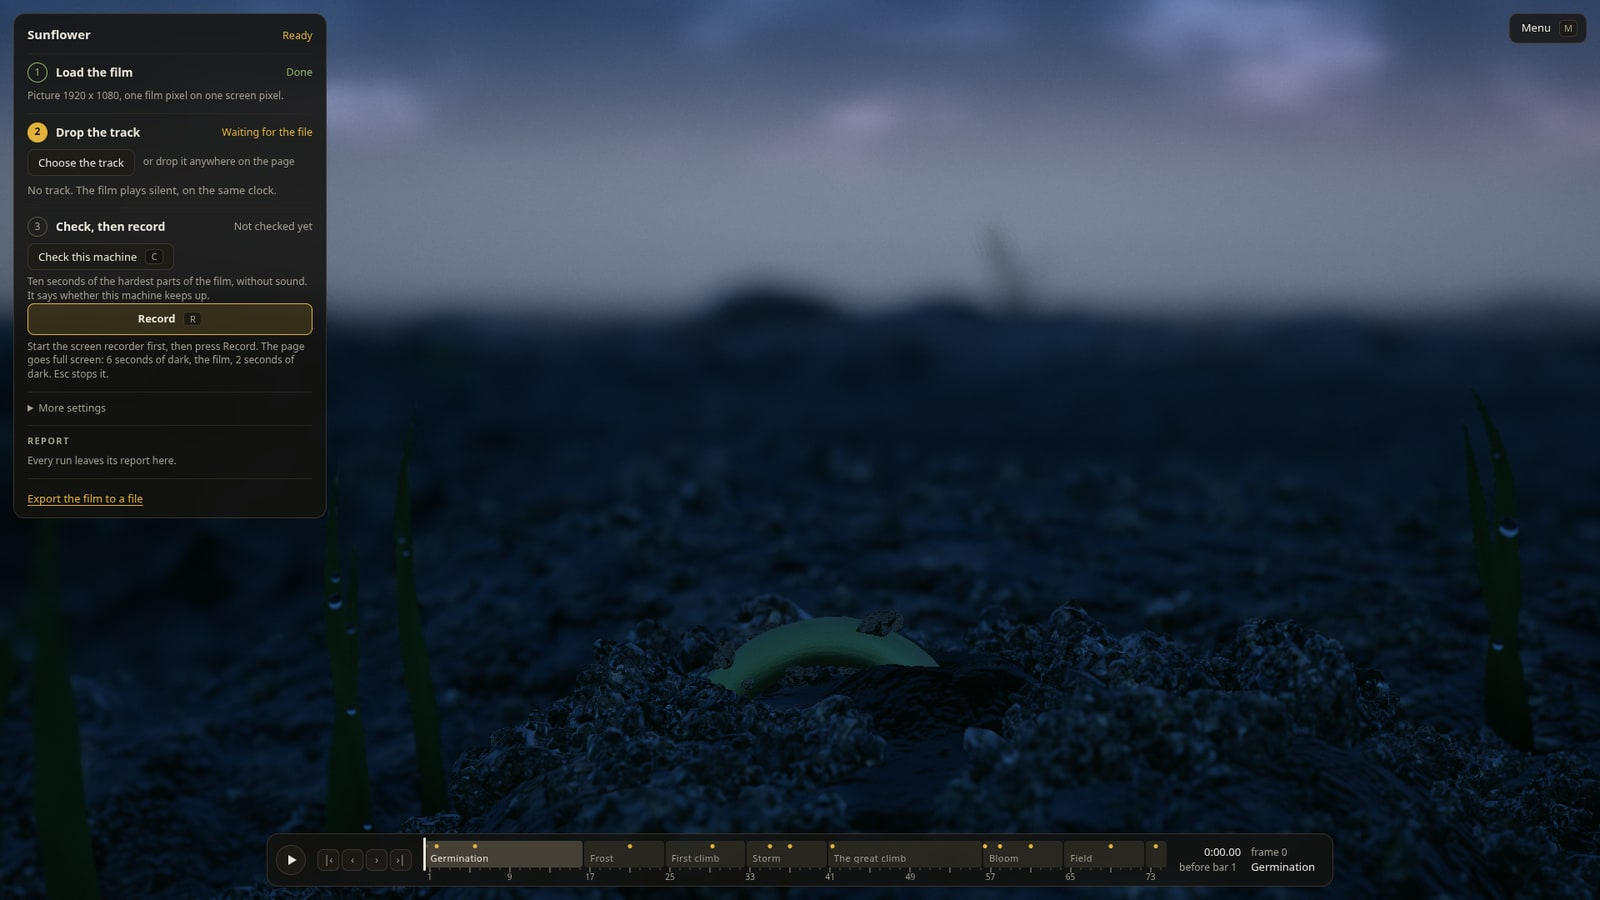
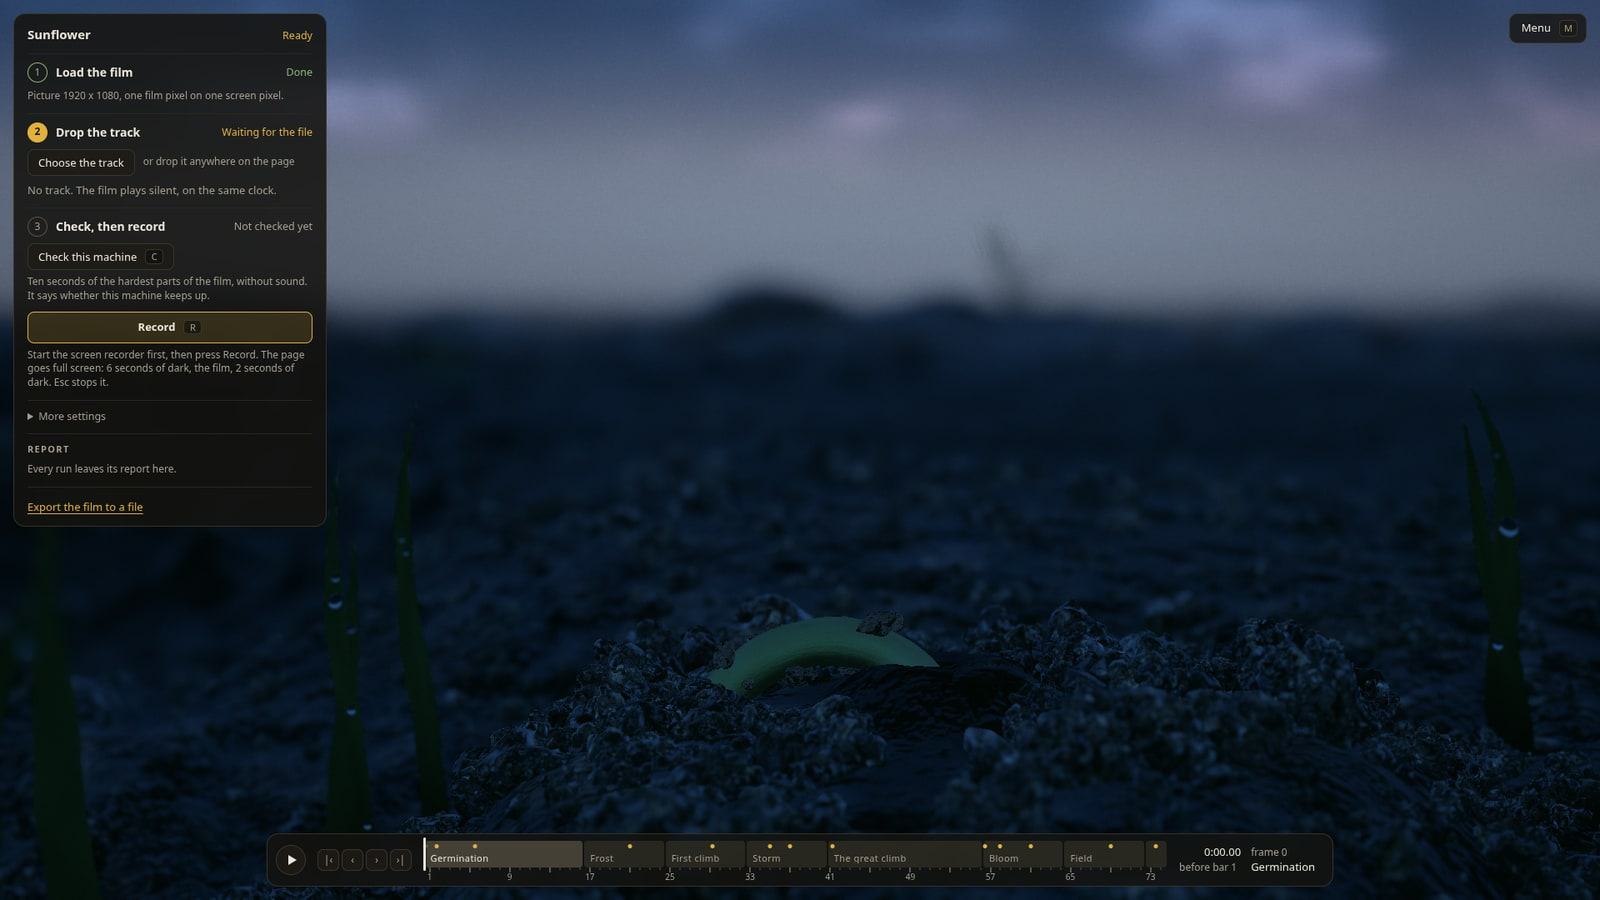
Looks of player, 2026-11-23 02:30 UTC

Changed region(s): [[0.0, 0.3111, 0.1875, 0.5911]]

diff --git a/looks/NOTES.md b/looks/NOTES.md
@@ -1,12 +1,14 @@
 # Looks of player
 
-2026-11-23 02:19 UTC, at commit 8f0c202 of agent/player.
+2026-11-23 02:30 UTC, at commit 4d275a0 of agent/player.
 
-Three steps with their state, load steps from the film, report opens with one sentence. sky-b at v2 aa7c0b7, 1920 x 1080, software renderer
+Final layout of the three steps and the review page. sky-b at v2 aa7c0b7, 1920 x 1080, software renderer
 
 - `01-step-1-loading.jpg`: step 1 loading
 - `02-step-2-waiting-for-the-track.jpg`: step 2 waiting for the track
-- `03-step-2-done.jpg`: step 2 done
-- `04-step-3-checked.jpg`: step 3 checked
+- `03-step-2-done-step-3-next.jpg`: step 2 done, step 3 next
+- `04-step-3-checked-with-the-report-of-the-check.jpg`: step 3 checked, with the report of the check
 - `05-recording-film-only.jpg`: recording, film only
 - `06-report-after-the-recording.jpg`: report after the recording
+- `07-review-page-ready.jpg`: review page ready
+- `08-review-page-playing.jpg`: review page playing
